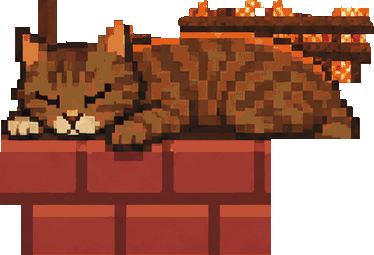
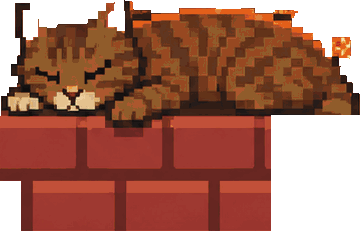
Clean rug and tree seams, twinkling lights, window snow, fire tongues

diff --git a/index.html b/index.html
@@ -4,14 +4,16 @@ html,body{margin:0;height:100%;background:#0d0a0a;overflow:hidden}
 .s{position:absolute;left:50%;top:50%;transform:translate(-50%,-50%);width:max(100vw,177.78vh);height:max(56.25vw,100vh);background:url(bg.png) 0 0/100% 100%;image-rendering:pixelated;overflow:hidden}
 @media (max-aspect-ratio:4/3){.s{width:min(100vw,177.78vh);height:min(56.25vw,100vh)}}
 .s>*{position:absolute;pointer-events:none;image-rendering:pixelated}
+#snow{left:5.339%;top:10.526%;width:12.562%;height:26.475%;z-index:1}.lt{width:.45%;height:.8%;margin:-.4% 0 0 -.22%;background:radial-gradient(circle,rgba(255,250,200,.95) 0 25%,rgba(255,210,110,.5) 45%,transparent 70%);z-index:5;animation:tw 2s steps(3) infinite}@keyframes tw{0%,100%{opacity:.15}50%{opacity:1}}.wframe{z-index:2}
 #fire{left:38.896%;top:33.094%;width:21.983%;height:28.708%;opacity:.9;mix-blend-mode:screen;--m:linear-gradient(90deg,transparent,#000 12%,#000 88%,transparent),linear-gradient(transparent 0,transparent 15%,#000 65%);-webkit-mask-image:var(--m);mask-image:var(--m);-webkit-mask-composite:source-in;mask-composite:intersect}
 .front{z-index:2}.ttail,.tbody,.ktail,.kbody,.khead{z-index:3}
 .front{left:38.896%;top:43.062%;width:21.983%;height:18.740%;transform-origin:50% 100%;animation:none}
 .ttail{left:48.362%;top:62.121%;width:4.666%;height:9.250%;transform-origin:47.1% 0.9%;animation:sway 7s ease-in-out infinite}
-.tbody{left:36.205%;top:51.037%;width:16.779%;height:20.335%;transform-origin:50% 100%;animation:br 4.4s ease-in-out infinite}
-.ktail{left:51.279%;top:82.616%;width:6.909%;height:8.692%;transform-origin:2.6% 58.7%;animation:flick 9s ease-in-out infinite}
-.kbody{left:37.550%;top:73.525%;width:20.637%;height:17.783%;transform-origin:50% 100%;animation:br 5.2s ease-in-out infinite -2s}
-.khead{left:37.550%;top:73.604%;width:7.851%;height:17.703%;transform-origin:85.7% 61.7%;animation:bob 11s ease-in-out infinite}
+.tbody{left:36.205%;top:52.951%;width:16.151%;height:18.421%;transform-origin:50% 100%;animation:br 4.4s ease-in-out infinite}
+.ktail{left:52.355%;top:84.370%;width:6.101%;height:10.845%;transform-origin:5.9% 67.6%;animation:flick 9s ease-in-out infinite}
+.kbody{left:37.954%;top:74.801%;width:20.592%;height:21.212%;transform-origin:50% 100%;animation:br 5.2s ease-in-out infinite -2s}
+.khead{left:37.954%;top:74.801%;width:6.819%;height:21.212%;transform-origin:99.3% 89.5%;animation:bob 11s ease-in-out infinite}
+.wframe{left:5.070%;top:10.048%;width:13.100%;height:27.432%;transform-origin:50% 50%;animation:none}
 @keyframes br{0%,100%{transform:scaleY(1)}50%{transform:scaleY(1.018)}}
 @keyframes sway{0%,100%{transform:rotate(-3deg)}50%{transform:rotate(4deg)}}
 @keyframes flick{0%,80%,100%{transform:rotate(0)}84%{transform:rotate(-9deg)}88%{transform:rotate(3deg)}92%{transform:rotate(-5deg)}}
@@ -22,6 +24,7 @@ html,body{margin:0;height:100%;background:#0d0a0a;overflow:hidden}
 .btn{position:fixed;left:50%;bottom:4vmin;transform:translateX(-50%);font:bold 14px monospace;color:#ffe3a8;background:#3a1c14;border:3px solid #ffb347;box-shadow:3px 3px 0 #000;padding:8px 14px;cursor:pointer;transition:opacity 1.5s;z-index:9}
 @media (prefers-reduced-motion:reduce){.s *{animation:none!important}.e{display:none}}
 </style></head><body><div class="s">
+<canvas id="snow" width="64" height="76"></canvas>
 <canvas id="fire" width="96" height="72"></canvas>
 <img class="sp front" src="front.png" alt="">
 <img class="sp ttail" src="ttail.png" alt="">
@@ -29,6 +32,56 @@ html,body{margin:0;height:100%;background:#0d0a0a;overflow:hidden}
 <img class="sp ktail" src="ktail.png" alt="">
 <img class="sp kbody" src="kbody.png" alt="">
 <img class="sp khead" src="khead.png" alt="">
+<i class="lt" style="left:78.80%;top:10.81%;animation-duration:1.92s;animation-delay:-1.63s"></i>
+<i class="lt" style="left:79.61%;top:15.79%;animation-duration:2.21s;animation-delay:-1.81s"></i>
+<i class="lt" style="left:81.65%;top:18.78%;animation-duration:2.78s;animation-delay:-0.20s"></i>
+<i class="lt" style="left:79.78%;top:21.35%;animation-duration:1.43s;animation-delay:-2.51s"></i>
+<i class="lt" style="left:77.39%;top:24.08%;animation-duration:1.97s;animation-delay:-0.70s"></i>
+<i class="lt" style="left:82.94%;top:24.11%;animation-duration:3.59s;animation-delay:-1.41s"></i>
+<i class="lt" style="left:81.20%;top:26.20%;animation-duration:3.24s;animation-delay:-1.43s"></i>
+<i class="lt" style="left:79.05%;top:28.51%;animation-duration:2.81s;animation-delay:-0.45s"></i>
+<i class="lt" style="left:81.39%;top:30.72%;animation-duration:2.80s;animation-delay:-2.60s"></i>
+<i class="lt" style="left:77.68%;top:31.46%;animation-duration:2.55s;animation-delay:-2.22s"></i>
+<i class="lt" style="left:76.00%;top:34.29%;animation-duration:2.88s;animation-delay:-0.19s"></i>
+<i class="lt" style="left:84.52%;top:34.60%;animation-duration:3.07s;animation-delay:-1.77s"></i>
+<i class="lt" style="left:78.95%;top:35.92%;animation-duration:2.06s;animation-delay:-0.09s"></i>
+<i class="lt" style="left:79.09%;top:35.61%;animation-duration:3.30s;animation-delay:-1.42s"></i>
+<i class="lt" style="left:75.68%;top:37.92%;animation-duration:2.98s;animation-delay:-2.64s"></i>
+<i class="lt" style="left:82.48%;top:38.16%;animation-duration:2.97s;animation-delay:-2.76s"></i>
+<i class="lt" style="left:82.53%;top:38.66%;animation-duration:2.27s;animation-delay:-2.40s"></i>
+<i class="lt" style="left:85.94%;top:40.72%;animation-duration:2.38s;animation-delay:-2.81s"></i>
+<i class="lt" style="left:78.76%;top:42.39%;animation-duration:3.33s;animation-delay:-0.29s"></i>
+<i class="lt" style="left:81.44%;top:43.99%;animation-duration:1.70s;animation-delay:-0.65s"></i>
+<i class="lt" style="left:76.53%;top:43.98%;animation-duration:3.52s;animation-delay:-1.31s"></i>
+<i class="lt" style="left:81.67%;top:44.54%;animation-duration:2.78s;animation-delay:-0.90s"></i>
+<i class="lt" style="left:86.47%;top:45.05%;animation-duration:2.52s;animation-delay:-1.16s"></i>
+<i class="lt" style="left:83.60%;top:45.77%;animation-duration:2.17s;animation-delay:-1.76s"></i>
+<i class="lt" style="left:78.33%;top:46.81%;animation-duration:2.69s;animation-delay:-2.71s"></i>
+<i class="lt" style="left:85.58%;top:48.14%;animation-duration:2.90s;animation-delay:-2.79s"></i>
+<i class="lt" style="left:85.76%;top:47.97%;animation-duration:3.28s;animation-delay:-2.97s"></i>
+<i class="lt" style="left:87.86%;top:49.72%;animation-duration:2.88s;animation-delay:-0.49s"></i>
+<i class="lt" style="left:81.61%;top:50.01%;animation-duration:3.29s;animation-delay:-2.89s"></i>
+<i class="lt" style="left:75.77%;top:50.40%;animation-duration:3.39s;animation-delay:-1.71s"></i>
+<i class="lt" style="left:84.51%;top:51.22%;animation-duration:2.97s;animation-delay:-0.63s"></i>
+<i class="lt" style="left:79.30%;top:52.67%;animation-duration:3.23s;animation-delay:-1.72s"></i>
+<i class="lt" style="left:87.99%;top:54.42%;animation-duration:2.03s;animation-delay:-0.19s"></i>
+<i class="lt" style="left:74.63%;top:55.34%;animation-duration:3.28s;animation-delay:-2.97s"></i>
+<i class="lt" style="left:83.45%;top:55.58%;animation-duration:1.59s;animation-delay:-2.40s"></i>
+<i class="lt" style="left:78.25%;top:57.17%;animation-duration:2.30s;animation-delay:-0.45s"></i>
+<i class="lt" style="left:82.49%;top:58.34%;animation-duration:2.05s;animation-delay:-2.31s"></i>
+<i class="lt" style="left:86.42%;top:58.72%;animation-duration:3.32s;animation-delay:-0.13s"></i>
+<i class="lt" style="left:80.44%;top:59.13%;animation-duration:2.75s;animation-delay:-0.13s"></i>
+<i class="lt" style="left:75.01%;top:59.38%;animation-duration:2.98s;animation-delay:-0.99s"></i>
+<i class="lt" style="left:75.01%;top:59.77%;animation-duration:3.34s;animation-delay:-2.94s"></i>
+<i class="lt" style="left:89.69%;top:61.12%;animation-duration:2.51s;animation-delay:-3.00s"></i>
+<i class="lt" style="left:81.08%;top:62.71%;animation-duration:2.08s;animation-delay:-0.23s"></i>
+<i class="lt" style="left:76.40%;top:63.92%;animation-duration:2.72s;animation-delay:-0.09s"></i>
+<i class="lt" style="left:79.00%;top:64.51%;animation-duration:1.83s;animation-delay:-1.22s"></i>
+<i class="lt" style="left:87.92%;top:64.66%;animation-duration:2.74s;animation-delay:-0.47s"></i>
+<i class="lt" style="left:84.94%;top:64.85%;animation-duration:1.49s;animation-delay:-2.60s"></i>
+<i class="lt" style="left:82.53%;top:67.04%;animation-duration:2.09s;animation-delay:-2.88s"></i>
+<i class="lt" style="left:78.89%;top:67.73%;animation-duration:3.37s;animation-delay:-1.13s"></i>
+<img class="sp wframe" src="wframe.png" alt="">
 <div id="glow"></div>
 <i class="e" style="left:47%"></i><i class="e" style="left:50%;animation-delay:-1.1s"></i><i class="e" style="left:54%;animation-delay:-2.2s"></i>
 </div>
@@ -38,9 +91,12 @@ const st=[[40,8,4],[90,16,6],[140,30,8],[180,50,10],[210,80,14],[235,115,20],[24
 for(let i=1;i<37;i++){const f=i/36*(st.length-1),a=Math.floor(f),b=Math.min(a+1,st.length-1),t=f-a;P.push([0,1,2].map(k=>st[a][k]+(st[b][k]-st[a][k])*t).concat([Math.min(255,i*22)]))}
 const F=new Uint8Array(w*h);for(let i=0;i<w;i++){const d=Math.abs(i-w/2)/(w/2);F[(h-1)*w+i]=d<.9?36:30}
 const img=x.createImageData(w,h),g=document.getElementById('glow'),rm=matchMedia('(prefers-reduced-motion: reduce)').matches;let last=0;
-function step(){for(let X=0;X<w;X++)for(let Y=1;Y<h;Y++){const s=Y*w+X,p=F[s];if(!p){F[s-w]=0;continue}const r=Math.random()*3.4|0,d=s-r+1;F[Math.max(0,d-w)]=Math.max(0,p-(Math.random()<.55?1:0)-(Math.random()<(1-Y/h)*.9?1:0)-(Math.random()<.04?3:0))}
+let step=function(){for(let X=0;X<w;X++)for(let Y=1;Y<h;Y++){const s=Y*w+X,p=F[s];if(!p){F[s-w]=0;continue}const r=Math.random()*3.4|0,d=s-r+1;F[Math.max(0,d-w)]=Math.max(0,p-(Math.random()<.55?1:0)-(Math.random()<(1-Y/h)*.9?1:0)-(Math.random()<.04?3:0))}
 for(let i=0;i<w*h;i++){const q=P[F[i]];img.data.set(q,i*4)}x.putImageData(img,0,0)}
 function loop(t){if(t-last>33){last=t;step();g.style.opacity=.75+Math.random()*.25}requestAnimationFrame(loop)}
+const sc=document.getElementById('snow'),sx=sc.getContext('2d'),fl=[...Array(28)].map(()=>[Math.random()*64,Math.random()*76,.15+Math.random()*.35]);
+function snow(){sx.clearRect(0,0,64,76);sx.fillStyle='#e8f0ff';fl.forEach(f=>{f[1]+=f[2];f[0]+=Math.sin(f[1]/7)*.15;if(f[1]>76){f[1]=-1;f[0]=Math.random()*64}sx.fillRect(f[0]|0,f[1]|0,1,1)})}
+const _st=step;step=function(){_st();snow()};
 for(let i=0;i<40;i++)step();if(!rm)requestAnimationFrame(loop);else step()})();
 </script>
 <button class="btn" id="b">&#9654; click for sound</button><script>
